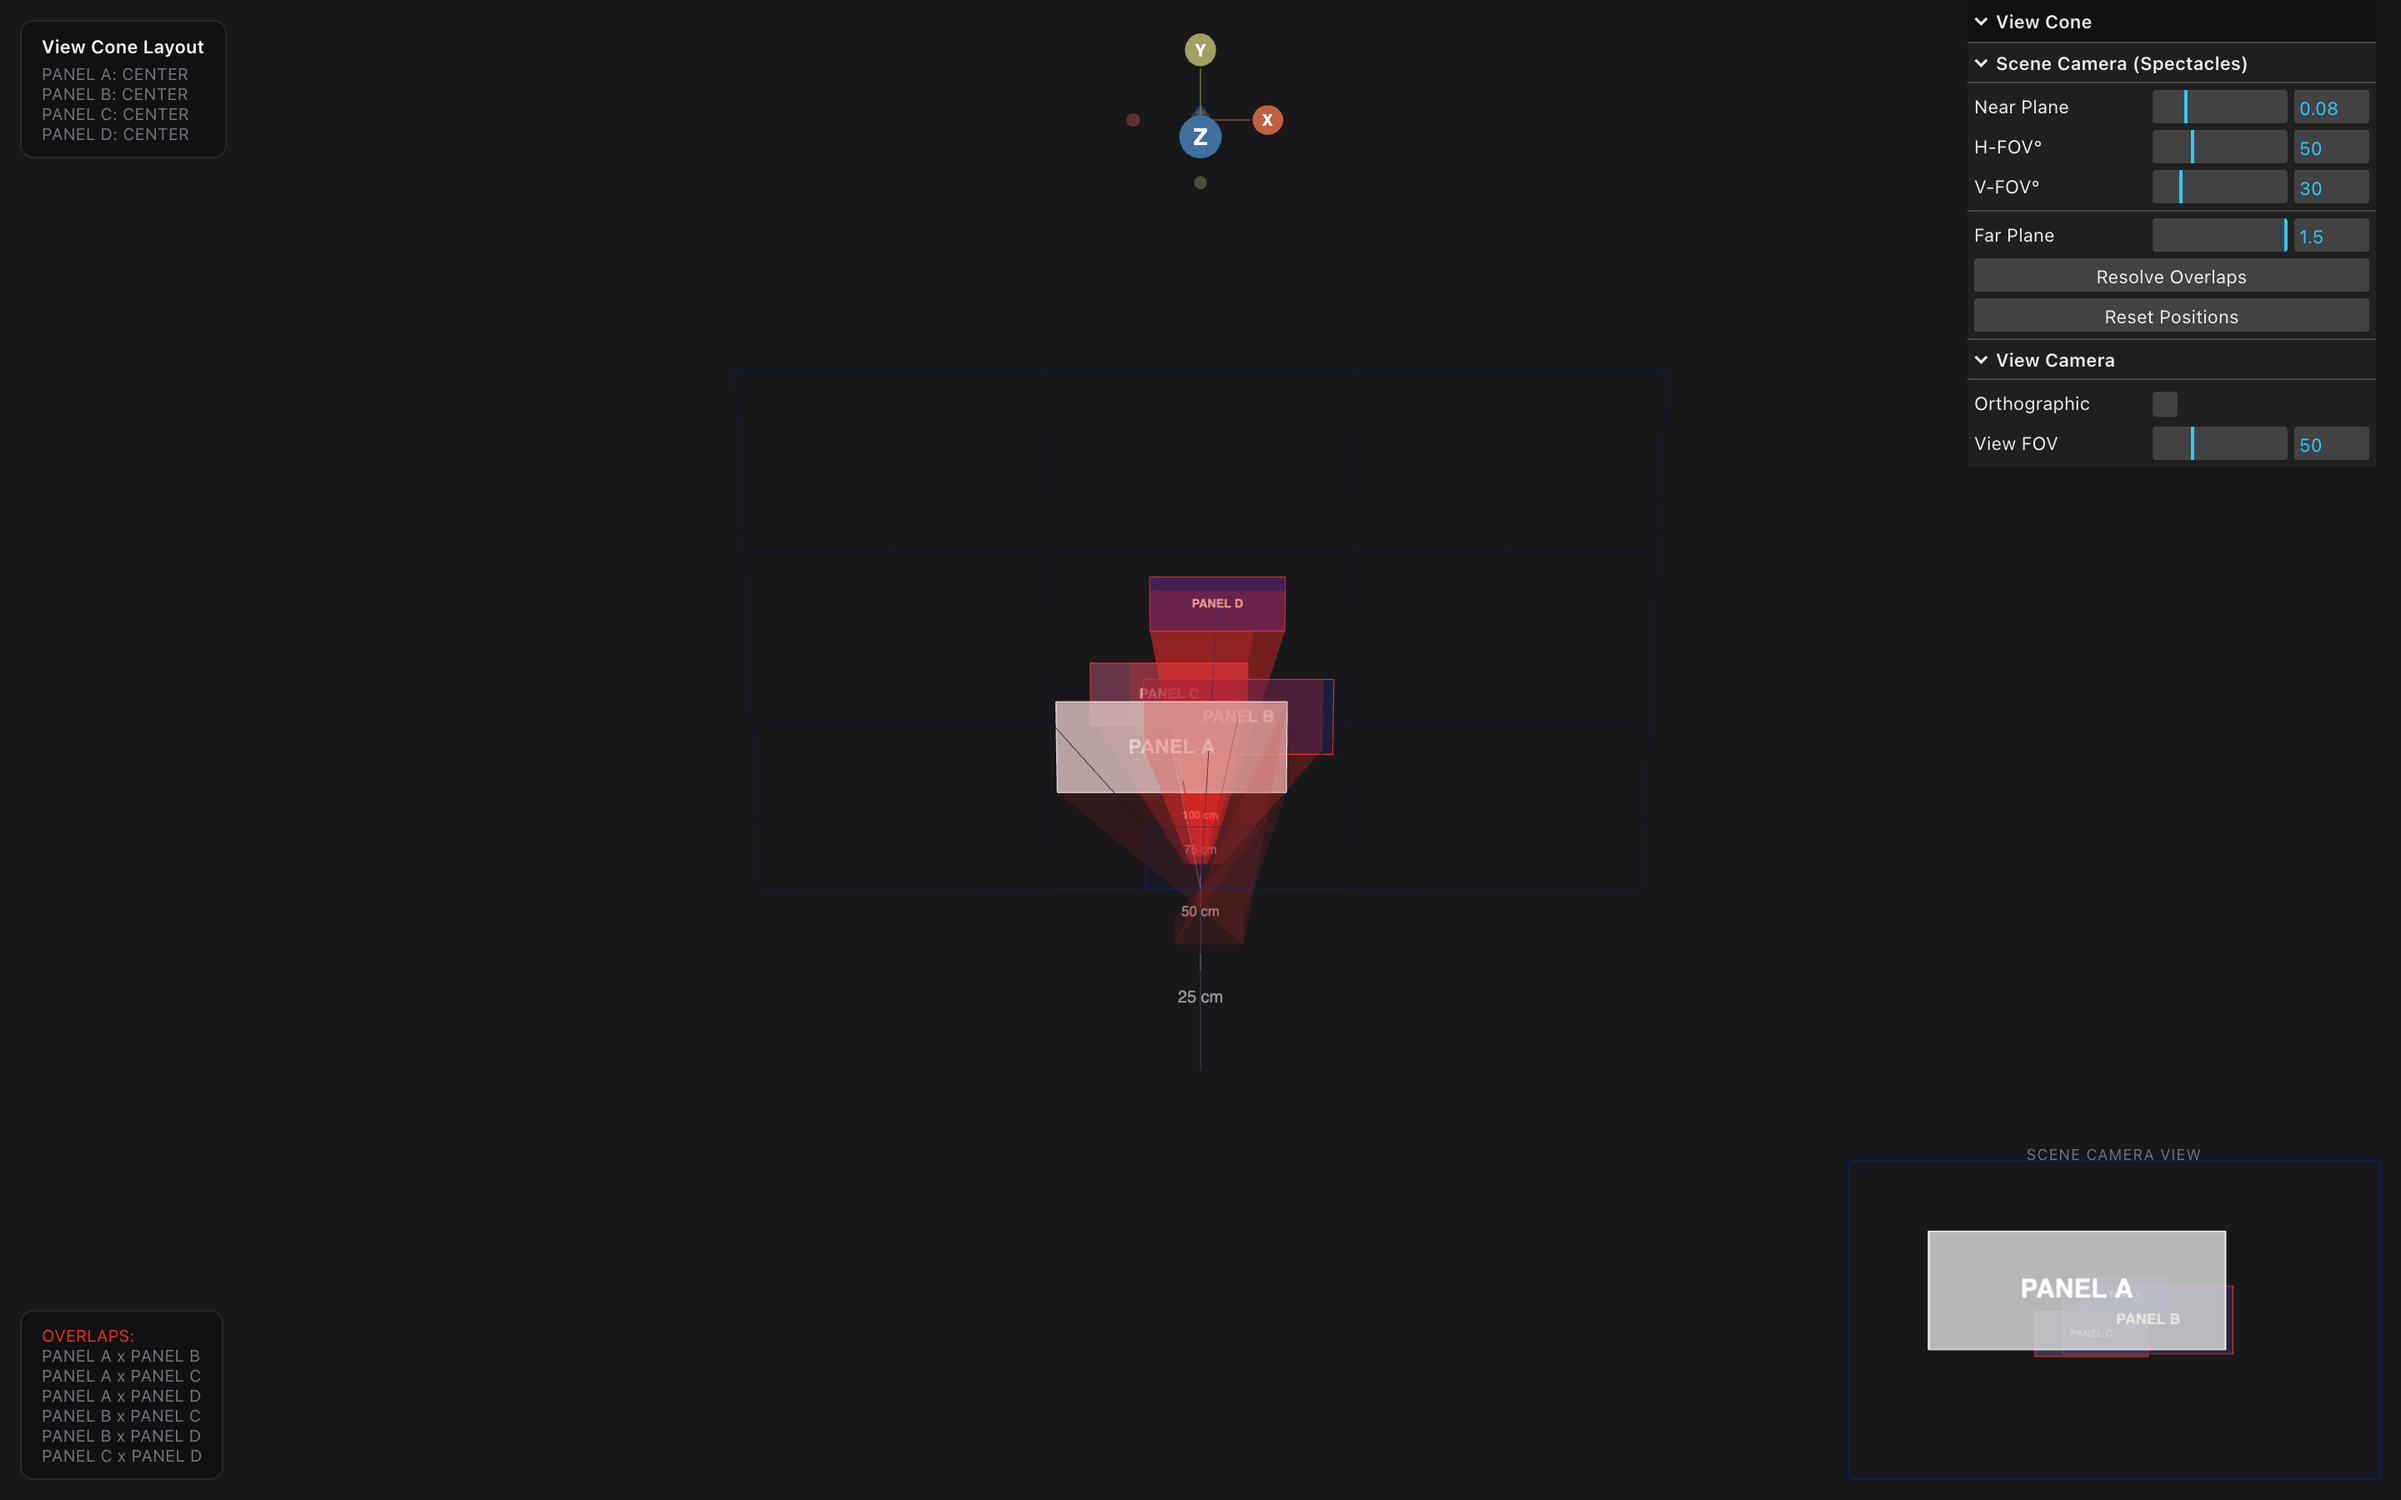
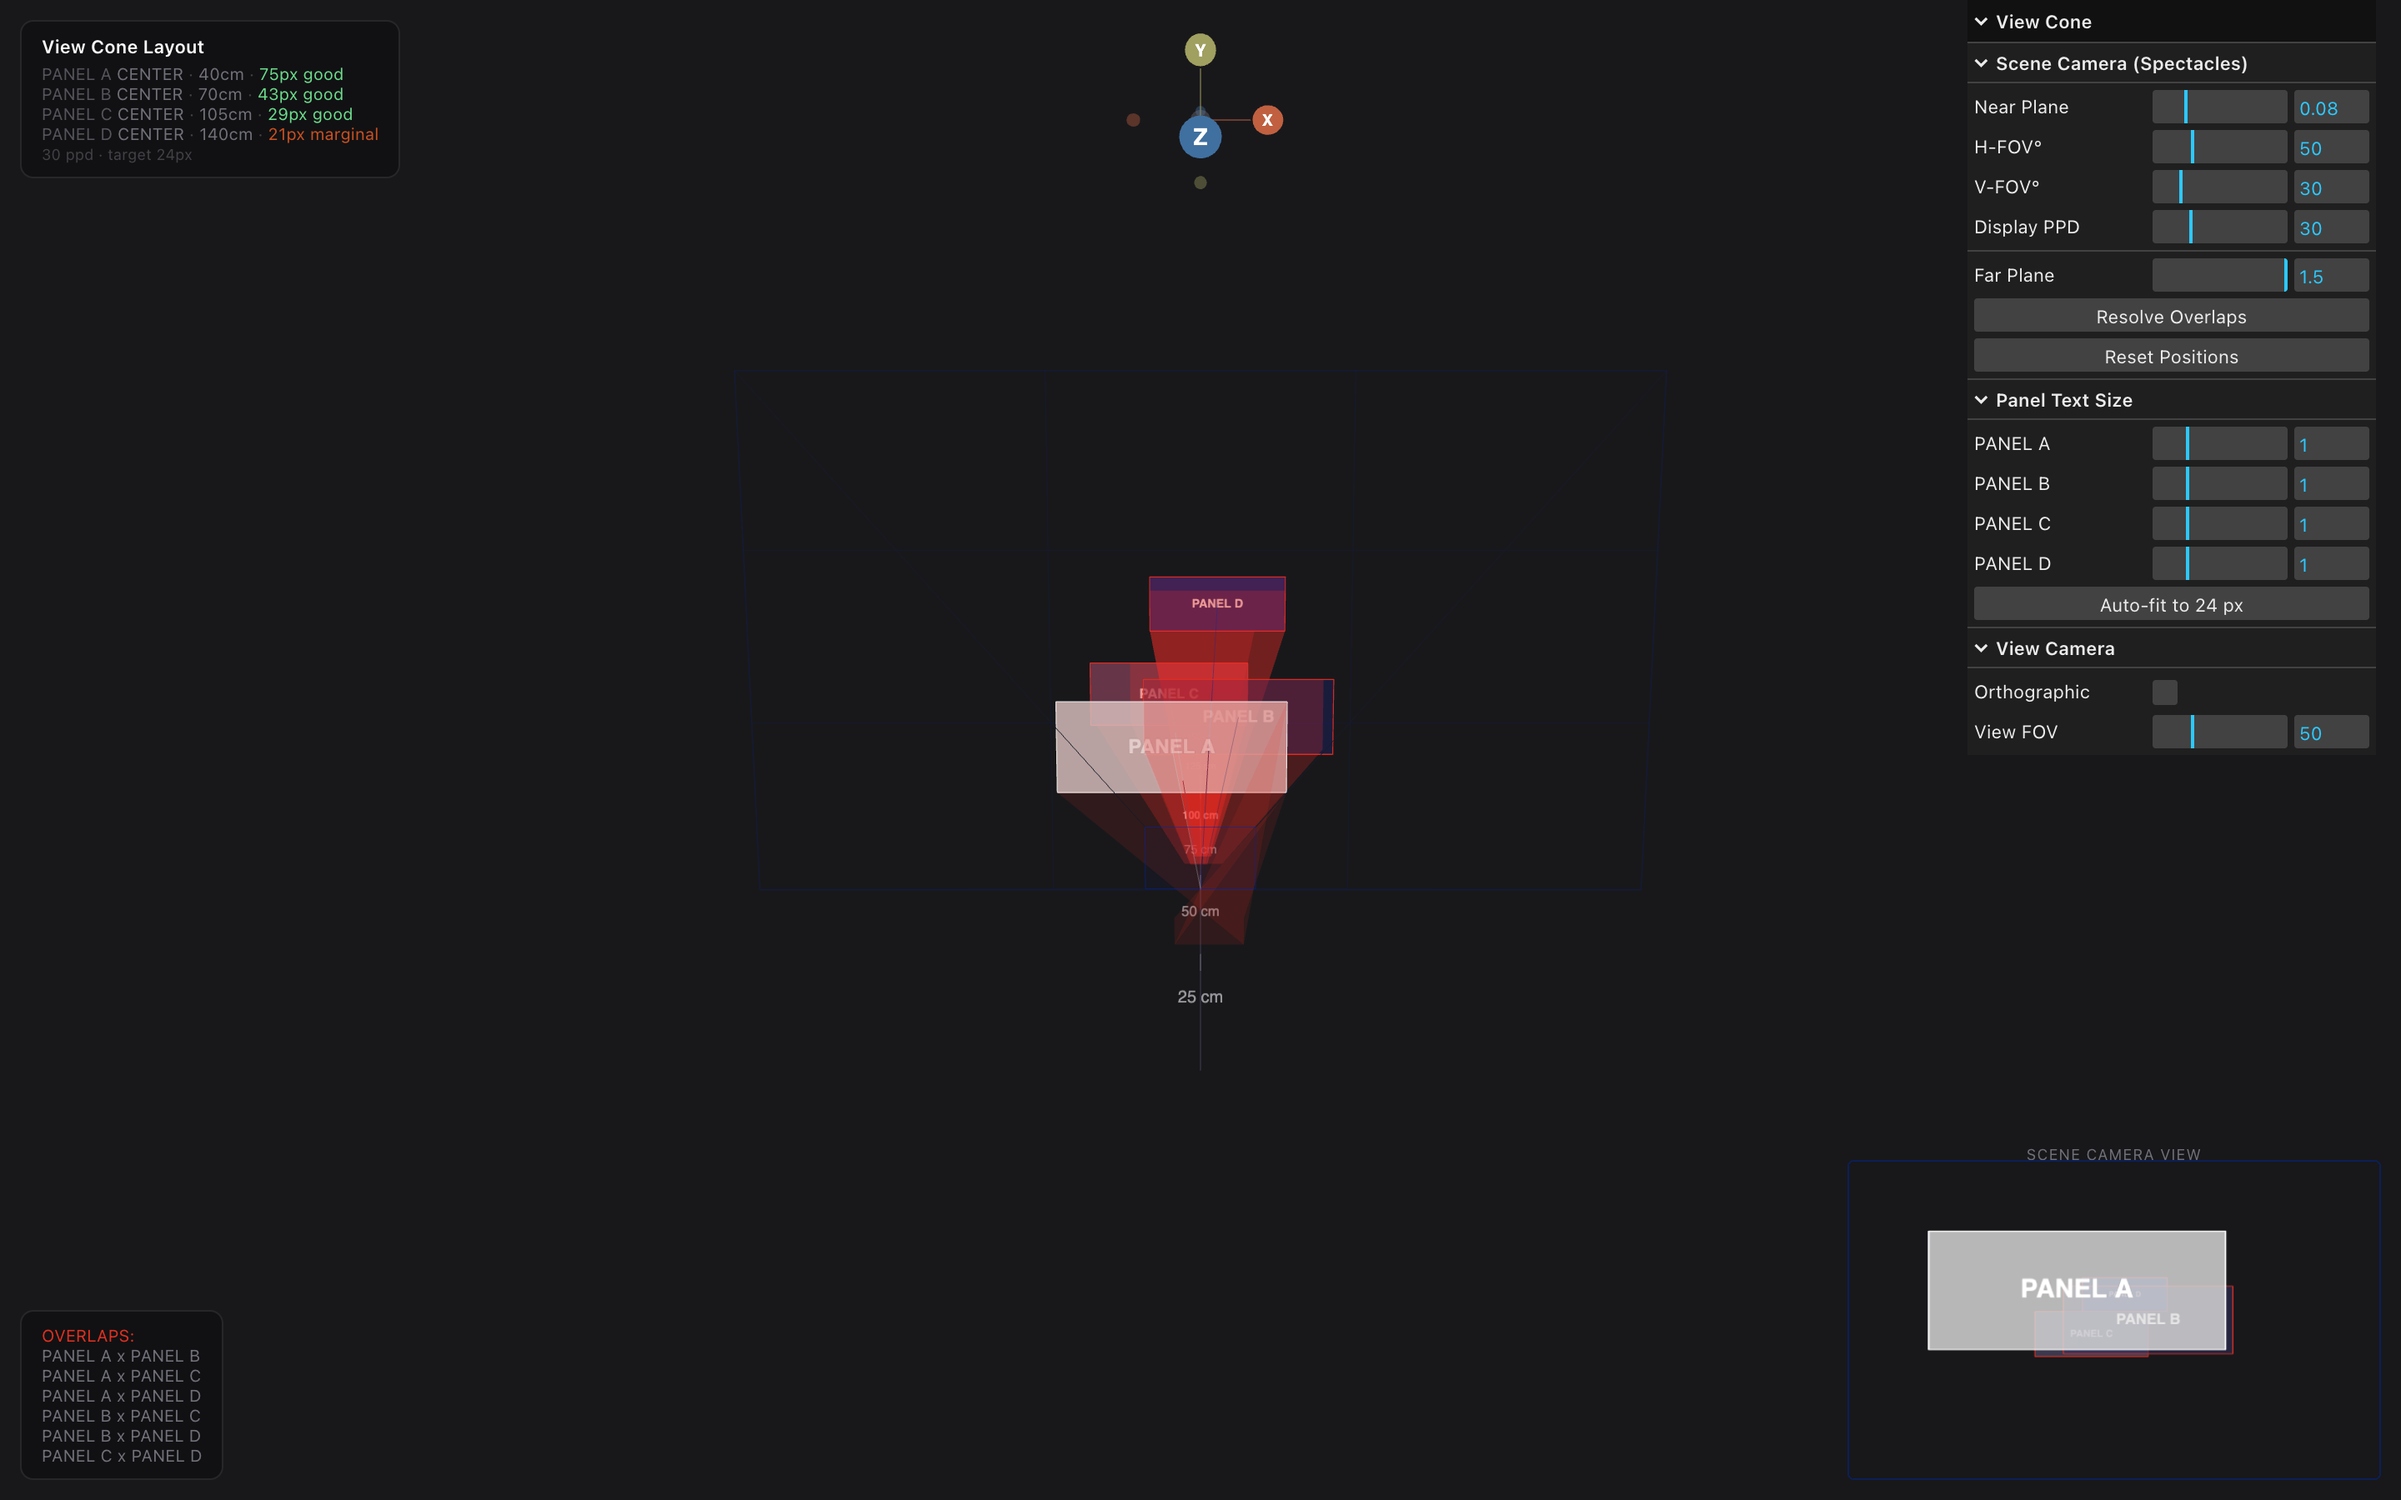
Demo: per-panel text DPI metrics, readability readout, auto-fit button
Adds a Display PPD intrinsic (default 30, Spectacles ballpark) and a
text-metrics utility that converts each panel's label into apparent
pixel height on the wearer's display, given distance and font size.

Per-panel text-scale sliders let you resize labels live; an Auto-fit
button snaps every panel to the 24 px readability target. The info
panel shows per-panel distance, pixel height, and a color-coded
status (good / marginal / poor).

The story: near panels can shrink below their default; far panels
must grow to stay legible. The math is angular size at the camera,
multiplied by the display's pixels per degree.

Changed region(s): [[0.8125, 0.3111, 1.0, 0.4978], [0.8125, 0.1244, 1.0, 0.3111], [0.0312, 0.0311, 0.1562, 0.0933]]

diff --git a/packages/view-cone-layout/demo/index.html b/packages/view-cone-layout/demo/index.html
@@ -52,6 +52,7 @@ const cam = {
   vFov: 30,      // Spectacles vertical FOV
   hFov: 50,      // Spectacles horizontal FOV
   aspect: 50/30,
+  ppd: 30,       // Display angular resolution: pixels per degree (Spectacles ballpark)
 };
 let H_FOV = cam.hFov;
 let V_FOV = cam.vFov;
@@ -321,12 +322,50 @@ function createPanel(name, x, y, z, color, w = 0.2, h = 0.08) {
   group.position.set(x, y, z);
   scene.add(group);
 
+  // Original label geometry parameters — used for text-size scaling
+  // and for computing apparent pixel size on the wearer's display.
+  const LABEL_FONT_PX = 28;        // font size used to render the canvas texture
+  const LABEL_CANVAS_H = 64;       // canvas height in pixels
+  const LABEL_PLANE_H = h * 0.5;   // label plane height in world meters
+  // World height of one cap (font glyph) at scale=1.0:
+  const baselineCapHWorld = LABEL_PLANE_H * (LABEL_FONT_PX / LABEL_CANVAS_H);
+
   return {
-    name, group, face, faceMat, borderMat, w, h,
+    name, group, face, faceMat, borderMat, label, w, h,
     hovered: false, sector: '', conflicts: [],
+    textScale: 1.0,
+    baselineCapHWorld,
     get worldPos() { return group.position; },
+    setTextScale(s) {
+      this.textScale = s;
+      this.label.scale.set(s, s, 1);
+    },
   };
 }
+
+/**
+ * Compute the apparent text size on the wearer's display.
+ *
+ *   distance     — Euclidean distance from camera origin to panel (meters)
+ *   angularDeg   — vertical angular height of one cap, in degrees
+ *   pixelHeight  — apparent cap height on display (px), assuming `ppd` pixels per degree
+ *   status       — 'good' (>= 24 px), 'marginal' (14-23), 'poor' (< 14)
+ *
+ * Thresholds follow standard HMD readability guidance: 24+ px for body text,
+ * 14-23 borderline, below 14 effectively unreadable on current AR optics.
+ */
+function getPanelTextMetrics(panel, ppd) {
+  const p = panel.worldPos;
+  const distance = Math.sqrt(p.x * p.x + p.y * p.y + p.z * p.z);
+  const capH = panel.baselineCapHWorld * panel.textScale;
+  const angularRad = 2 * Math.atan(capH / 2 / distance);
+  const angularDeg = angularRad * 180 / Math.PI;
+  const pixelHeight = angularDeg * ppd;
+  const status = pixelHeight >= 24 ? 'good' : pixelHeight >= 14 ? 'marginal' : 'poor';
+  return { distance, angularDeg, pixelHeight, status };
+}
+
+const READABILITY_TARGET_PX = 24;   // auto-fit aims for this
 
 // Initial positions — clustered in angular space, spread in Z so the
 // view-dependent nature of the overlap is obvious from orbit view.
@@ -605,12 +644,35 @@ camFolder.add(cam, 'vFov', 15, 90, 1).name('V-FOV°').onChange(v => {
   buildConeOutlines(params.coneDepth);
   updateSceneCamera();
 });
+camFolder.add(cam, 'ppd', 10, 80, 1).name('Display PPD');
 gui.add(params, 'coneDepth', 0.3, 1.5, 0.05).name('Far Plane').onChange(v => {
   buildConeOutlines(v);
   buildDepthRuler(v);
 });
 gui.add(params, 'resolve').name('Resolve Overlaps');
 gui.add(params, 'reset').name('Reset Positions');
+
+// ─── Per-panel text size + auto-fit readability ──────────────────────
+const textFolder = gui.addFolder('Panel Text Size');
+const textControllers = [];
+for (const p of panels) {
+  const proxy = { scale: 1.0 };
+  const ctl = textFolder.add(proxy, 'scale', 0.3, 3.0, 0.05).name(p.name);
+  ctl.onChange(v => p.setTextScale(v));
+  textControllers.push({ panel: p, ctl, proxy });
+}
+textFolder.add({
+  fit: () => {
+    for (const { panel, ctl, proxy } of textControllers) {
+      const m = getPanelTextMetrics(panel, cam.ppd);
+      const ratio = READABILITY_TARGET_PX / m.pixelHeight;
+      const newScale = Math.max(0.3, Math.min(3.0, panel.textScale * ratio));
+      panel.setTextScale(newScale);
+      proxy.scale = newScale;
+      ctl.updateDisplay();
+    }
+  },
+}, 'fit').name(`Auto-fit to ${READABILITY_TARGET_PX} px`);
 
 // Orbit camera controls
 const viewFolder = gui.addFolder('View Camera');
@@ -740,12 +802,21 @@ function animate() {
     connectionLines[i].geometry = new THREE.BufferGeometry().setFromPoints(pts);
   }
 
-  // Stats
-  const sectorList = panels.map(p => {
+  // Stats — sector + readability per panel
+  const STATUS_COLOR = { good: '#6cdc8c', marginal: '#c85020', poor: '#e03020' };
+  const rows = panels.map(p => {
     const proj = projectToAngular(p.worldPos);
-    return proj ? `${p.name}: ${getSector(proj.az, proj.el)}` : `${p.name}: ?`;
+    const sector = proj ? getSector(proj.az, proj.el) : '?';
+    const m = getPanelTextMetrics(p, cam.ppd);
+    const dCm = (m.distance * 100).toFixed(0);
+    const px = m.pixelHeight.toFixed(0);
+    const color = STATUS_COLOR[m.status];
+    return `<span style="opacity:0.7">${p.name}</span> ${sector}` +
+           ` <span style="opacity:0.5">·</span> ${dCm}cm` +
+           ` <span style="opacity:0.5">·</span> <span style="color:${color}">${px}px ${m.status}</span>`;
   });
-  document.getElementById('stats').innerHTML = sectorList.join('<br>');
+  const ppdNote = `<span style="opacity:0.5;font-size:9px">${cam.ppd} ppd · target ${READABILITY_TARGET_PX}px</span>`;
+  document.getElementById('stats').innerHTML = rows.join('<br>') + '<br>' + ppdNote;
   document.getElementById('overlap-log').innerHTML = overlaps.length > 0
     ? '<span style="color:var(--red)">OVERLAPS:</span><br>' + overlaps.map(([a,b]) => `${a} x ${b}`).join('<br>')
     : '<span style="color:#4a4">No overlaps</span>';
